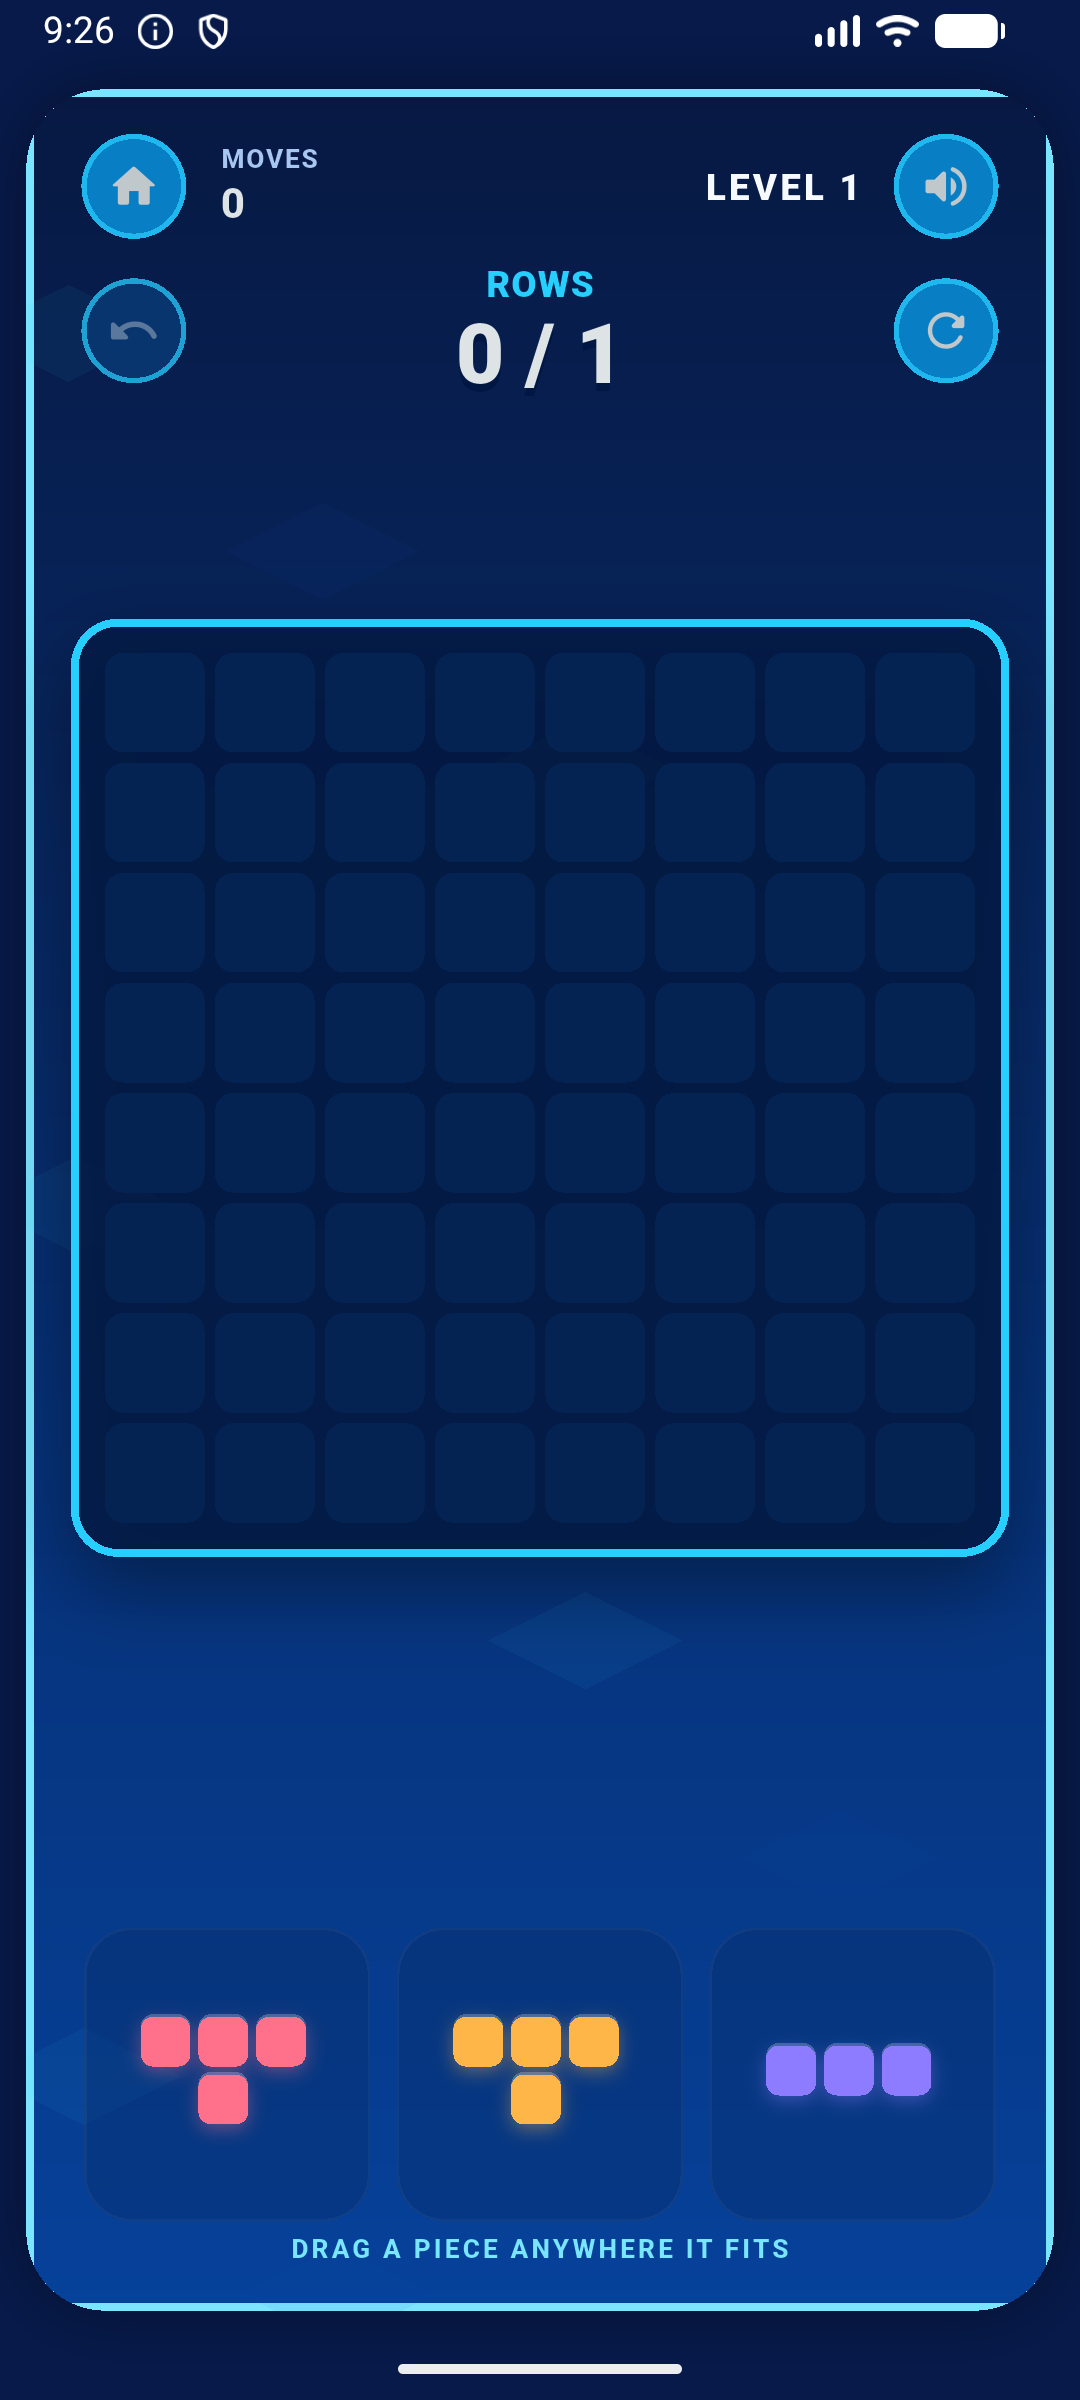
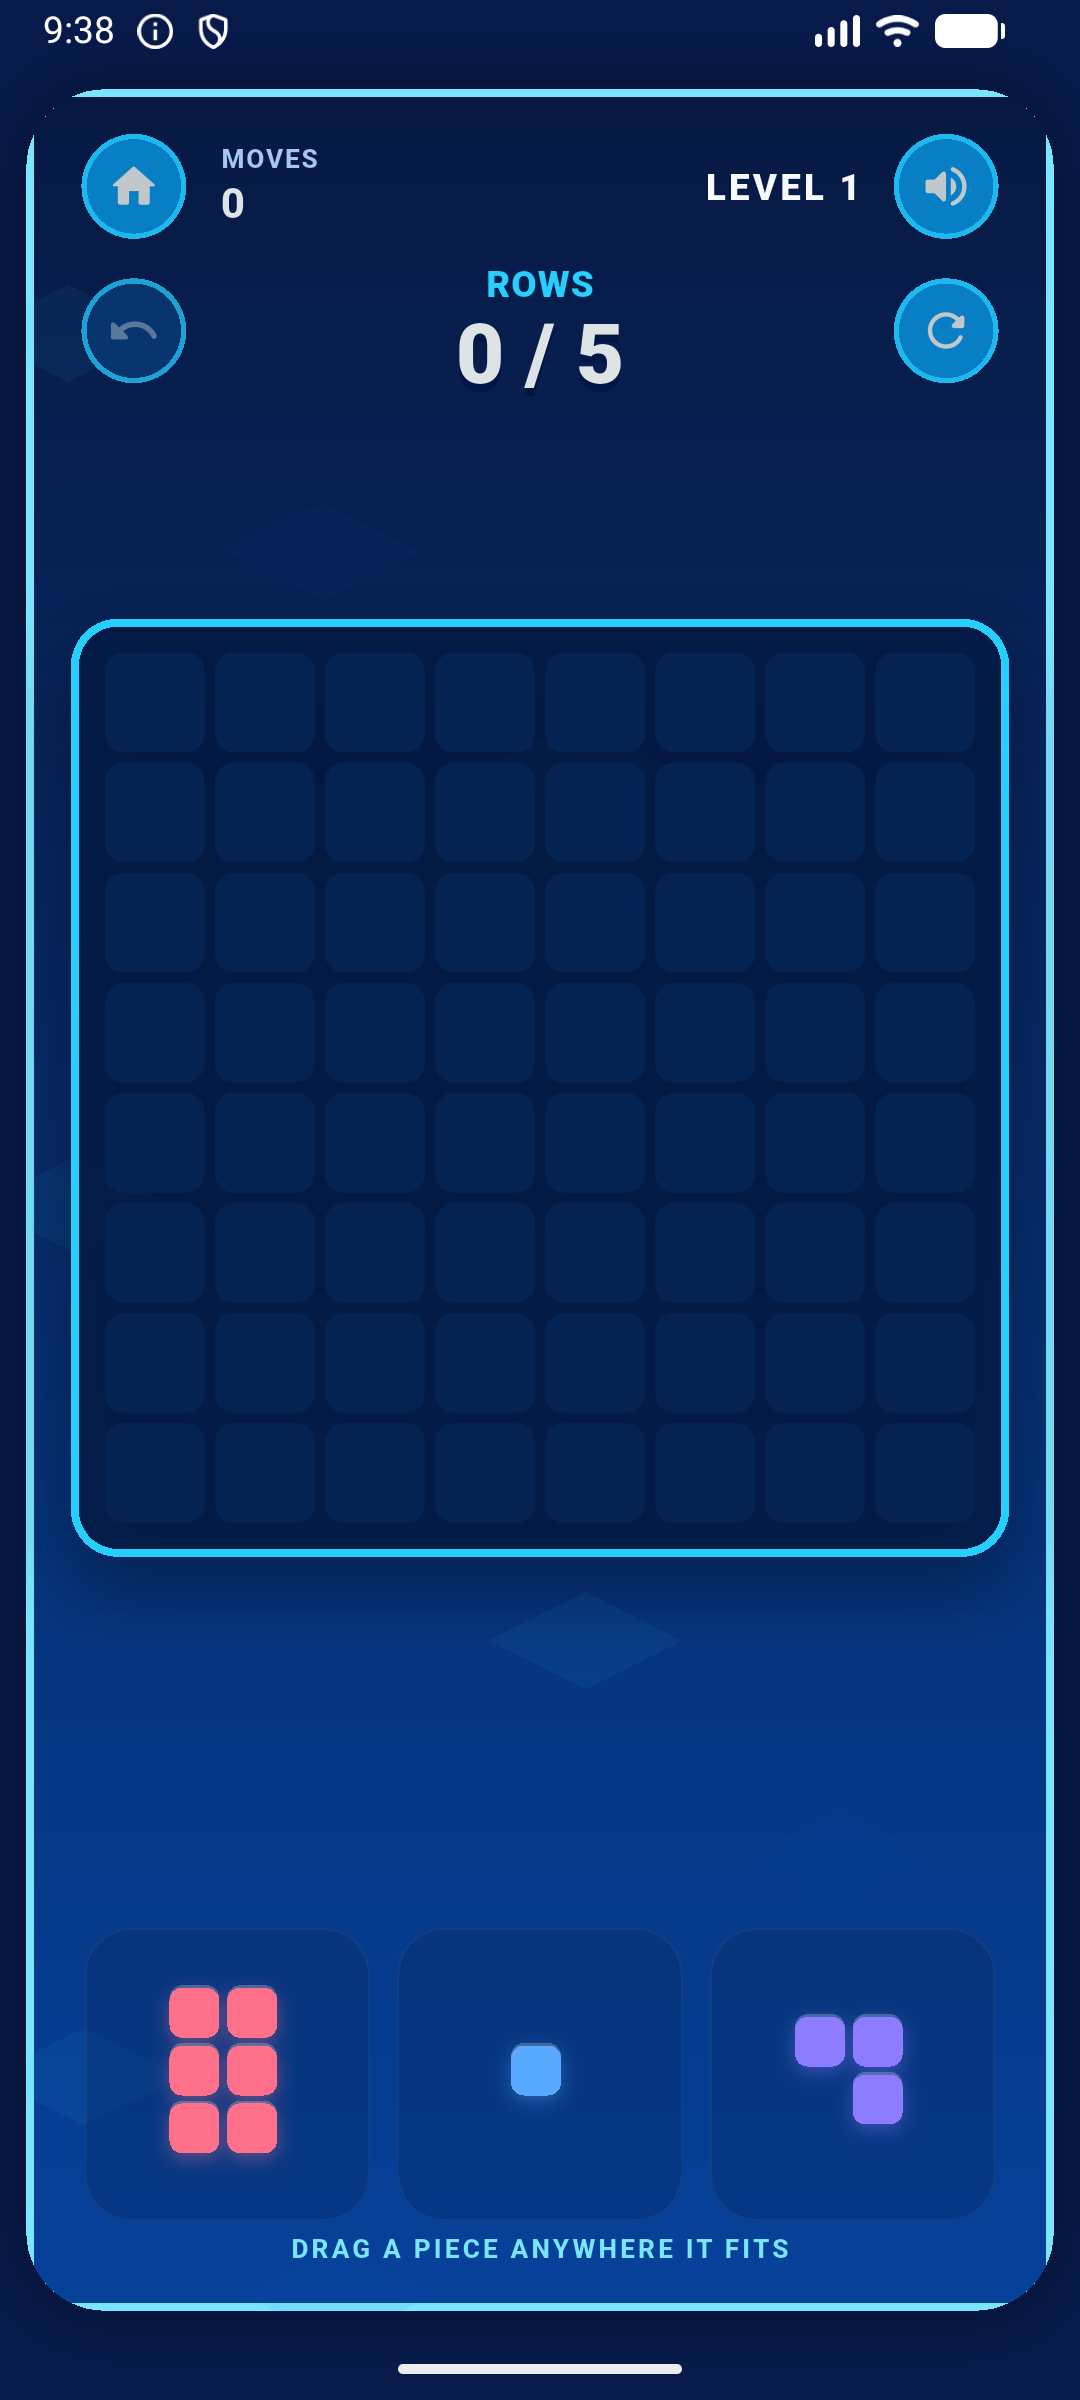
Rebalance Journey level goals

diff --git a/test/campaign_test.dart b/test/campaign_test.dart
@@ -11,7 +11,24 @@ void main() {
     expect(levels, hasLength(50));
     expect(levels.first.number, 1);
     expect(levels.last.number, 50);
+    expect(levels.first.targetLines, 5);
+    expect(levels.last.targetLines, 29);
+    expect(
+      levels.every((level) => level.targetLines >= 5),
+      isTrue,
+      reason: 'No Journey level should finish after clearing only one row.',
+    );
     expect(levels.first.targetLines, lessThan(levels.last.targetLines));
+    for (var index = 1; index < levels.length; index++) {
+      expect(
+        levels[index].targetLines,
+        greaterThanOrEqualTo(levels[index - 1].targetLines),
+      );
+      expect(
+        levels[index].parMoves,
+        greaterThanOrEqualTo(levels[index - 1].parMoves),
+      );
+    }
     expect(levels.first.prefillRows, 0);
     expect(levels.last.prefillRows, 4);
   });

diff --git a/lib/src/campaign.dart b/lib/src/campaign.dart
@@ -30,12 +30,15 @@ class CampaignLevel {
 
   static List<CampaignLevel> get all => List.generate(50, (index) {
     final number = index + 1;
-    final targetLines = 1 + index ~/ 4;
+    // A Journey level should require a real run, not end after the player's
+    // first successful row. The target increases every two levels so players
+    // get one opportunity to consolidate each new difficulty step.
+    final targetLines = 5 + index ~/ 2;
     final prefillRows = math.min(4, index ~/ 10);
     return CampaignLevel(
       number: number,
       targetLines: targetLines,
-      parMoves: targetLines * 8 + prefillRows * 2,
+      parMoves: targetLines * 4 + 4 + prefillRows * 2,
       prefillRows: prefillRows,
     );
   });

diff --git a/TEST_REPORT.md b/TEST_REPORT.md
@@ -20,8 +20,8 @@ verified in Play Console, and the critical journey passes on a physical device.
 - repeated cascade clearing until no full row remains;
 - gravity only after a row breaks, with remaining blocks settling to the base;
 - top-stack game-over handling and undo behavior;
-- 50-level Brickly Journey with targets, par moves, stars, unlocks, and saved
-  progress;
+- 50-level Brickly Journey with meaningful 5-to-29-row targets, scaling par
+  moves, stars, unlocks, and saved progress;
 - Endless Classic mode and corrected high-score persistence;
 - five-step first-run/replayable tutorial;
 - functional sound, haptics, placement-guide, and progress-reset settings;
